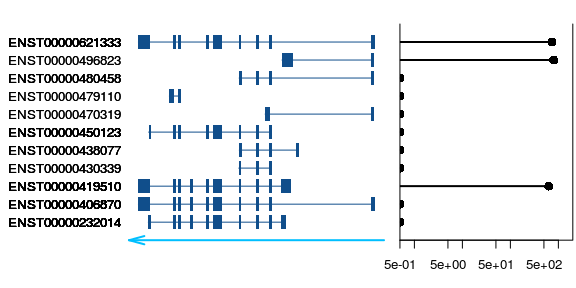
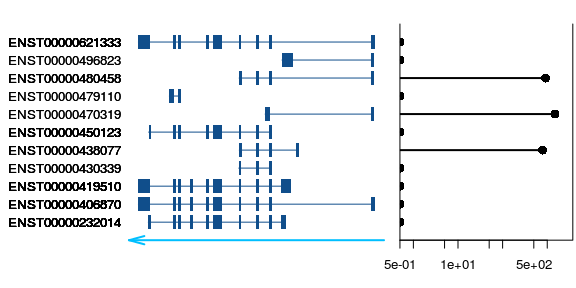
doc

diff --git a/doc/plot-transcripts.md b/doc/plot-transcripts.md
@@ -81,11 +81,11 @@ tail(counts)
 
     ##                 id count
     ## 6  ENST00000450123     0
-    ## 7  ENST00000470319     0
+    ## 7  ENST00000470319  1497
     ## 8  ENST00000479110     0
-    ## 9  ENST00000480458     0
-    ## 10 ENST00000496823   800
-    ## 11 ENST00000621333   738
+    ## 9  ENST00000480458   918
+    ## 10 ENST00000496823     0
+    ## 11 ENST00000621333     0
 
 The workflow entry point
 ------------------------
@@ -174,7 +174,7 @@ reportCircs(exSeq = exShortesSeq, file = "report.html")
 
 The resulting html file includes the information on the exon coordinates and sequences for the following primer design.
 
-![The HTML report with splice junction exon sequences.](report.png)
+![The HTML report with splice junction exon sequences.](img/report.png)
 
 Design and validate primers
 ---------------------------
